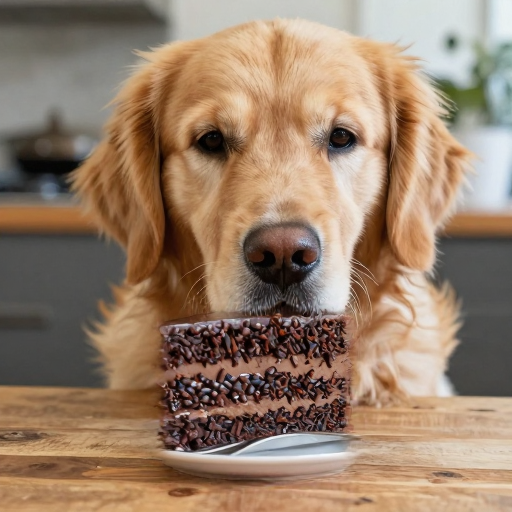
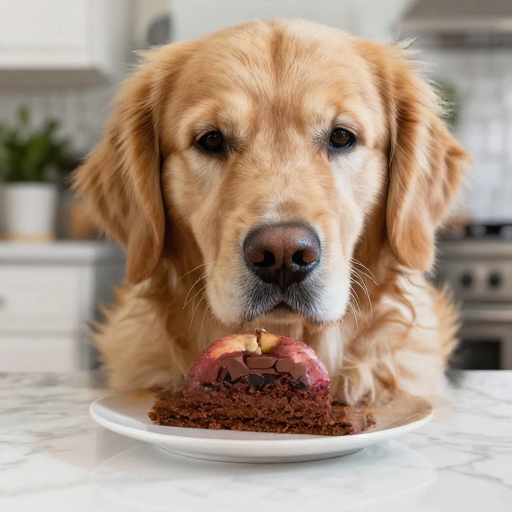
fix(docs): drive inpainting from sam2's real mask instead of a guessed rectangle
The previous inpaint step masked a hand-picked 210x190 rectangle sized for
the apple, then asked s3dit to put a slice of cake there. The result looked
broken: the model wanted to draw a full round plate, the rectangle was too
small to hold one, so the plate came out half-cropped with a soft blurred
seam right at the rectangle's edge - it read as "inpainting a blurred
circular mask", not a real edit.

Root cause was the mask itself, not the inpaint algorithm - a small
axis-aligned rectangle is the wrong shape for "swap in a plate", and picking
one by hand meant guessing box dimensions against a generated composition
whose exact object extents nobody measured.

Fix: reuse step 4's real sam2 segmentation mask (already isolates the dog)
instead of drawing a new synthetic one. Inverted, it reads "regenerate
everything BUT the dog" - so the dog is held pixel-fixed by an actual
per-pixel mask instead of empty space around a guessed box, while the wood
table, the apple, and the background all change together. strength raised
0.85 -> 1.0 (the regenerated region is now most of the image, so it should
use the full step schedule, not a partial one) and feather 2 -> 3 latent
cells (a smoother blend around an organic silhouette than a rectangle needed).

Verified quantitatively, not just visually: mean abs pixel diff inside the
dog mask is ~3.5/255 (VAE round-trip noise) vs ~59.7/255 outside it - the
dog is genuinely preserved while the rest of the scene genuinely changes.
[…]

diff --git a/README.md b/README.md
@@ -98,11 +98,13 @@ generation prompt asked for, at 4x the seed image's resolution.
 **Promptable segmentation**:
 
 ```bash
-$ brain sam2 segment --in image=seed.png --points "220,180" --labels "1" --out mask=mask.png --json   # auto-fetches facebook/sam2.1-hiera-tiny
+$ brain sam2 segment --in image=seed.png --points "220,180" --labels "1" --out mask=dog-mask.png --json   # auto-fetches facebook/sam2.1-hiera-tiny
 {"area":113765,"iou":0.9763,"object_score":21.10,...}
 ```
 
 ![the sam2 segmentation mask, isolating the dog](docs/quickstart/img/segmented.png)
+
+`dog-mask.png` is kept - it drives the inpainting step below.
 
 **Monocular depth**, false-colored (near = red, far = blue):
 
@@ -124,17 +126,22 @@ $ brain qwen3vl generate --in image=seed.png --prompt "What is in this image? An
 A golden retriever is looking at a red apple on a wooden table.
 ```
 
-**Masked inpainting** - replace the apple with a slice of cake, everything
-outside the mask held fixed:
+**Masked inpainting** - invert sam2's own segmentation mask (above) so it reads
+"regenerate everything *but* the dog", then let the dog anchor the composition
+while the wood table, the apple, and the background all change together:
 
 ```bash
-$ brain imageops mask_rect --width 512 --height 512 --x 150 --y 300 --w 210 --h 190 --out mask=mask.png
-$ brain --device gpu s3dit inpaint --in image=seed.png --in mask=mask.png \
-    --prompt "a slice of chocolate cake on the table" --strength 0.85 --steps 8 --precision int8 \
+$ python3 -c "from PIL import Image, ImageOps; ImageOps.invert(Image.open('dog-mask.png').convert('L')).save('bg-mask.png')"
+$ brain --device gpu s3dit inpaint --in image=seed.png --in mask=bg-mask.png \
+    --prompt "a golden retriever dog sitting behind a slice of chocolate cake on a white marble kitchen countertop, bright natural daylight, blurred modern kitchen background, photorealistic" \
+    --strength 1.0 --feather 3 --steps 8 --precision int8 \
     --out image=inpainted.png
 ```
 
-![the seed image with the apple replaced by a slice of chocolate cake](docs/quickstart/img/inpainted.png)
+![the seed image with the wood table, apple, and background all replaced, the dog itself held pixel-fixed by the inverted sam2 mask](docs/quickstart/img/inpainted.png)
+
+A real segmentation mask driving inpainting, not a hand-picked rectangle: the
+dog is the one thing sam2 marked, so it's the one thing this leaves alone.
 
 **Speech: text → speech → text → text**, a full TTS → ASR → LLM round trip,
 through two independently-trained ASR models on the exact same audio:
